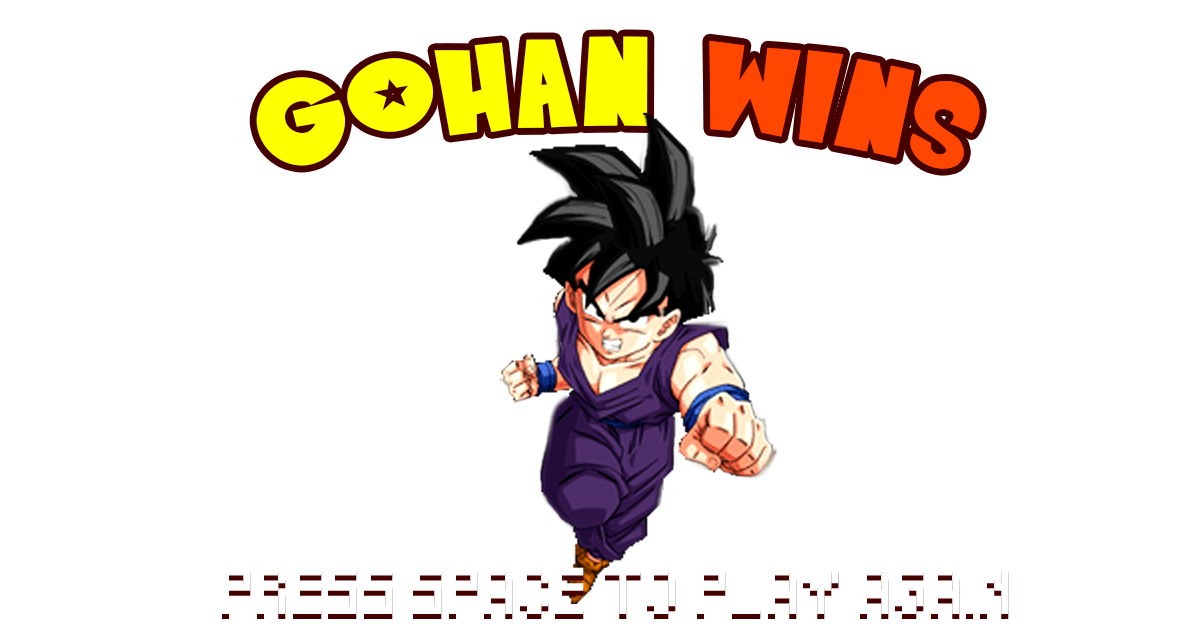
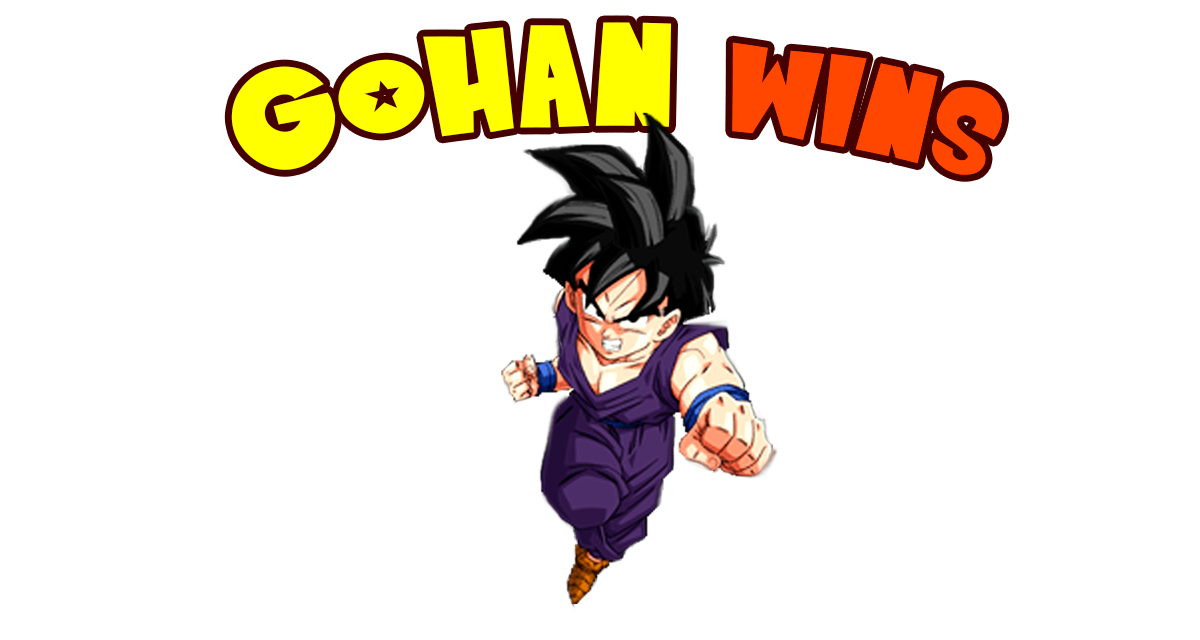
stage3 changes + press space animation

diff --git a/SmashDragon/EndGame.cpp b/SmashDragon/EndGame.cpp
@@ -9,6 +9,10 @@ void EndGame::Init()
 {
     tileset = new TileSet("Resources/EndGame/background sprite sheet.png", 1200, 640, 4, 4);
     animation = new Animation(tileset, 0.1f, true);
+
+    tilesetPS = new TileSet("Resources/EndGame/Press Space Sheet.png", 801, 61, 1, 4);
+    animationPS = new Animation(tilesetPS, 0.1f, true);
+
     vegeta = new Sprite("Resources/EndGame/vegeta_wins.png");
     goku = new Sprite("Resources/EndGame/goku_wins.png");
     gohan = new Sprite("Resources/EndGame/gohan_wins.png");
@@ -57,6 +61,7 @@ void EndGame::Update()
     }
     
     animation->NextFrame();
+    animationPS->NextFrame();
 }
 
 // ------------------------------------------------------------------------------
@@ -64,13 +69,14 @@ void EndGame::Update()
 void EndGame::Draw()
 {
     animation->Draw(window->CenterX(), window->CenterY(), Layer::BACK);
+    animationPS->Draw(window->CenterX(), window->CenterY()+250, Layer::FRONT);
 
     switch (winner)
     {
-    case 0: goku->Draw(window->CenterX(), window->CenterY(), Layer::FRONT); break;
-    case 1: gohan->Draw(window->CenterX(), window->CenterY(), Layer::FRONT); break;
-    case 2: vegeta->Draw(window->CenterX(), window->CenterY(), Layer::FRONT); break;
-    case 3: kidGohan->Draw(window->CenterX(), window->CenterY(), Layer::FRONT); break;
+    case 0: goku->Draw(window->CenterX(), window->CenterY(), Layer::MIDDLE); break;
+    case 1: gohan->Draw(window->CenterX(), window->CenterY(), Layer::MIDDLE); break;
+    case 2: vegeta->Draw(window->CenterX(), window->CenterY(), Layer::MIDDLE); break;
+    case 3: kidGohan->Draw(window->CenterX(), window->CenterY(), Layer::MIDDLE); break;
     }
     
     

diff --git a/SmashDragon/EndGame.h b/SmashDragon/EndGame.h
@@ -20,6 +20,8 @@ private:
     Audio* audio = nullptr;
     TileSet* tileset = nullptr;
     Animation* animation = nullptr;
+    TileSet* tilesetPS = nullptr;
+    Animation* animationPS = nullptr;
 
     int winner;
 
